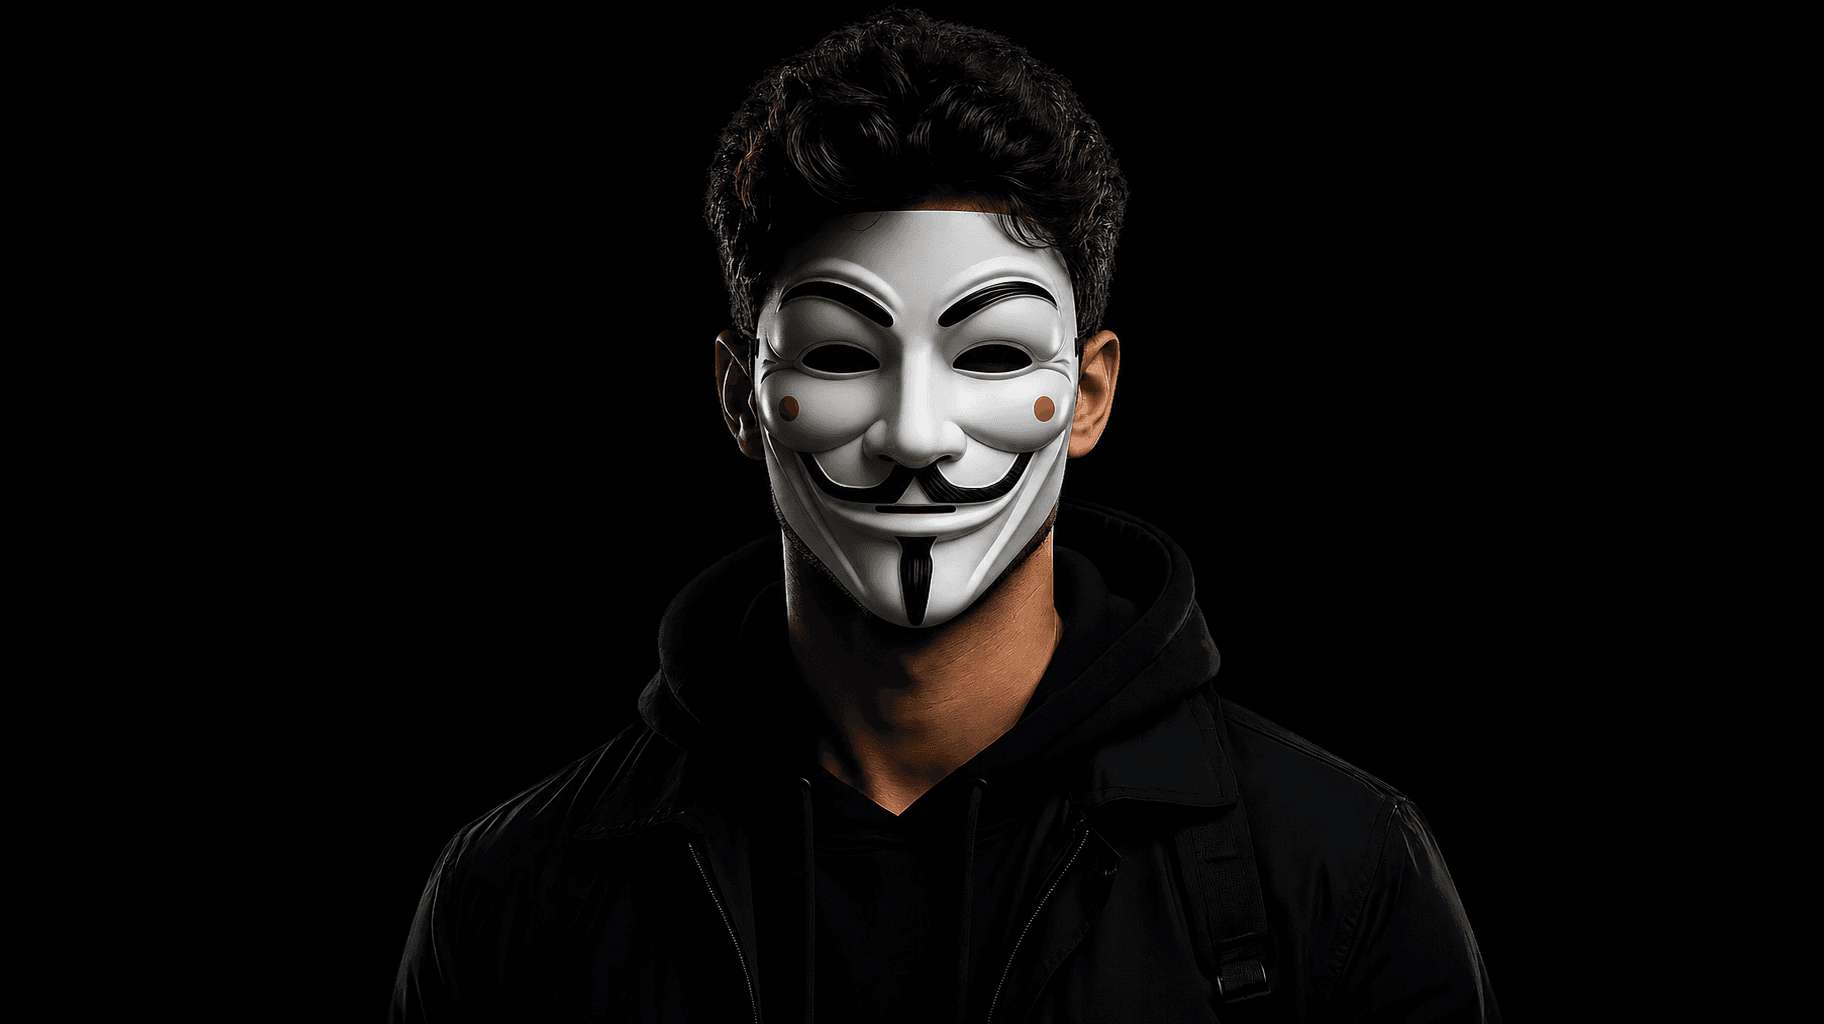
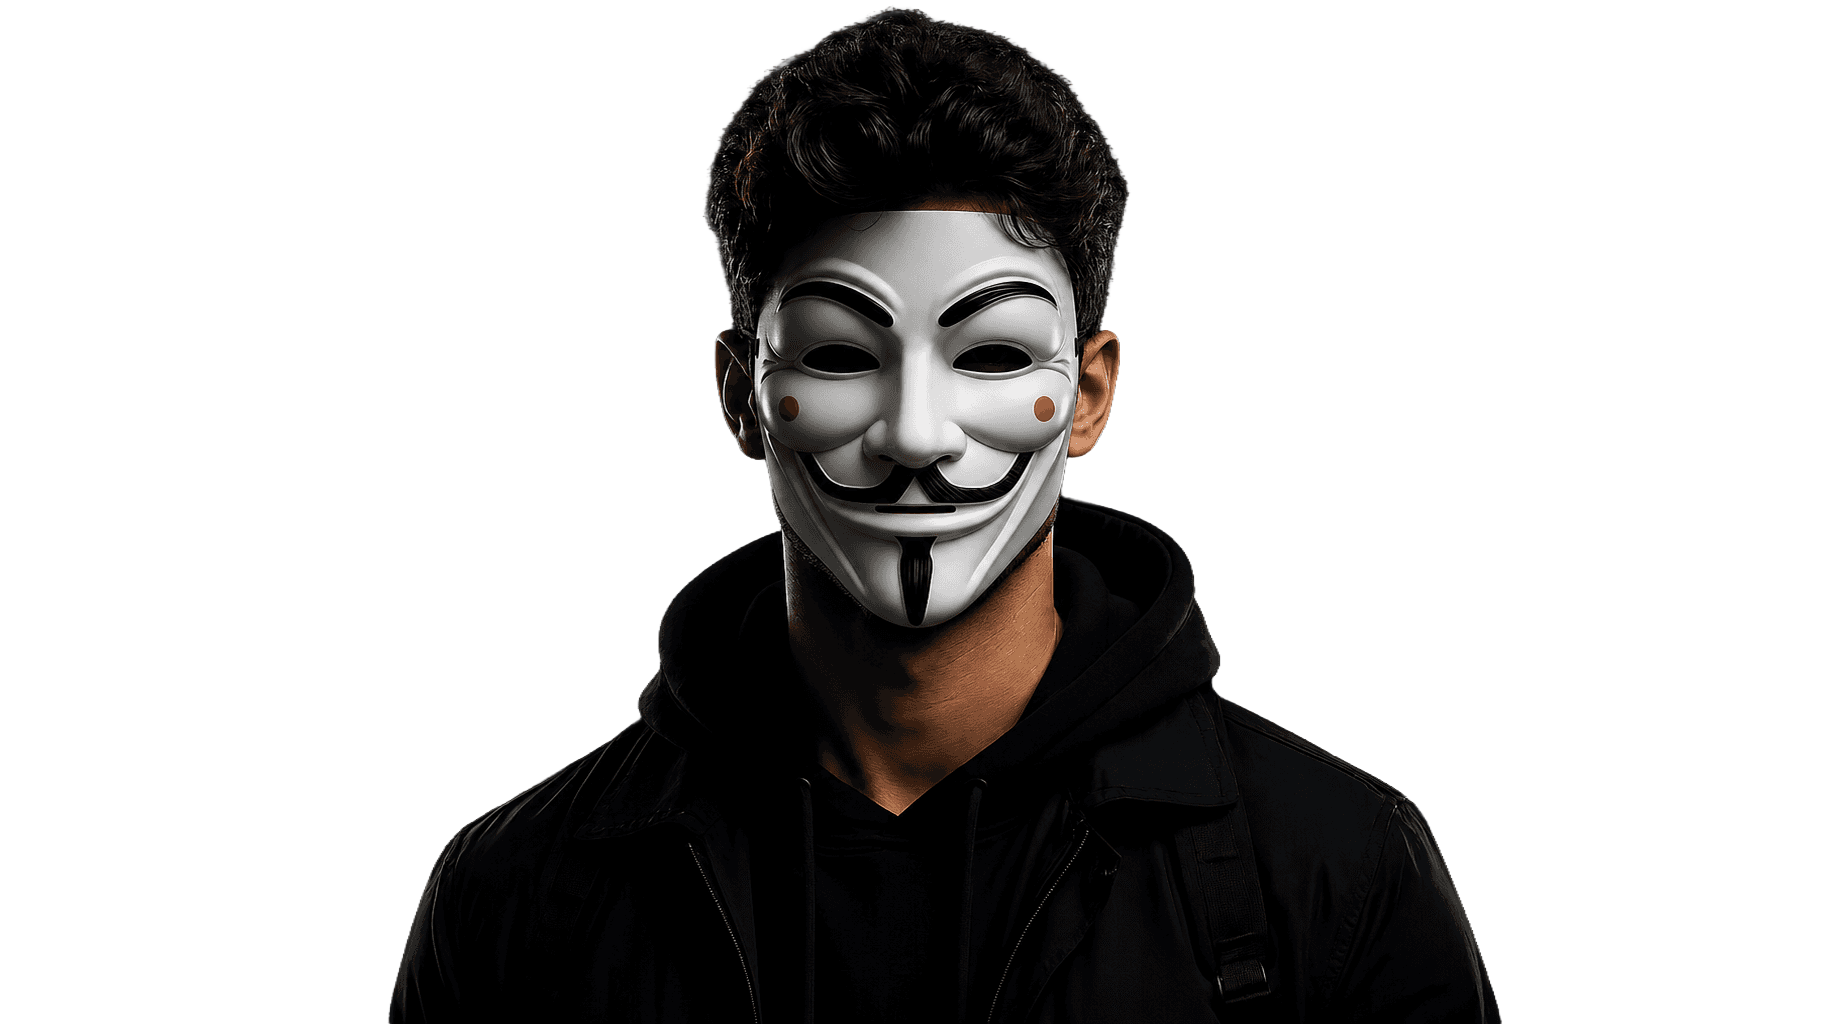
Use uploaded transparent hero assets

diff --git a/src/components/BackgroundContent.tsx b/src/components/BackgroundContent.tsx
@@ -7,7 +7,7 @@ const REEL = [...WORDS, ...WORDS, ...WORDS, ...WORDS];
 export const BackgroundContent: React.FC = () => {
   return (
     // Full-viewport canvas — both layers positioned absolutely inside
-    <div className="absolute inset-0 z-[35] hidden pointer-events-none select-none overflow-hidden md:block">
+    <div className="absolute inset-0 z-20 hidden pointer-events-none select-none overflow-hidden md:block">
 
       {/* ───────────────────────────────────────────────────────────────
           LAYER 1 — Static faded background text

diff --git a/src/components/LogoMark.tsx b/src/components/LogoMark.tsx
@@ -11,10 +11,10 @@ export const LogoMark: React.FC<LogoMarkProps> = ({
 }) => (
   <span className={`relative inline-flex items-center justify-center ${className}`} aria-hidden="true">
     <img
-      src="/blacksignal-logo.png"
+      src="/blacksignal-photo.png"
       alt=""
       draggable="false"
-      className={`h-full w-full object-contain drop-shadow-[0_0_8px_rgba(212,255,0,0.45)] ${imageClassName}`}
+      className={`h-full w-full object-contain invert brightness-125 contrast-125 drop-shadow-[0_0_8px_rgba(255,255,255,0.22)] ${imageClassName}`}
     />
   </span>
 );
